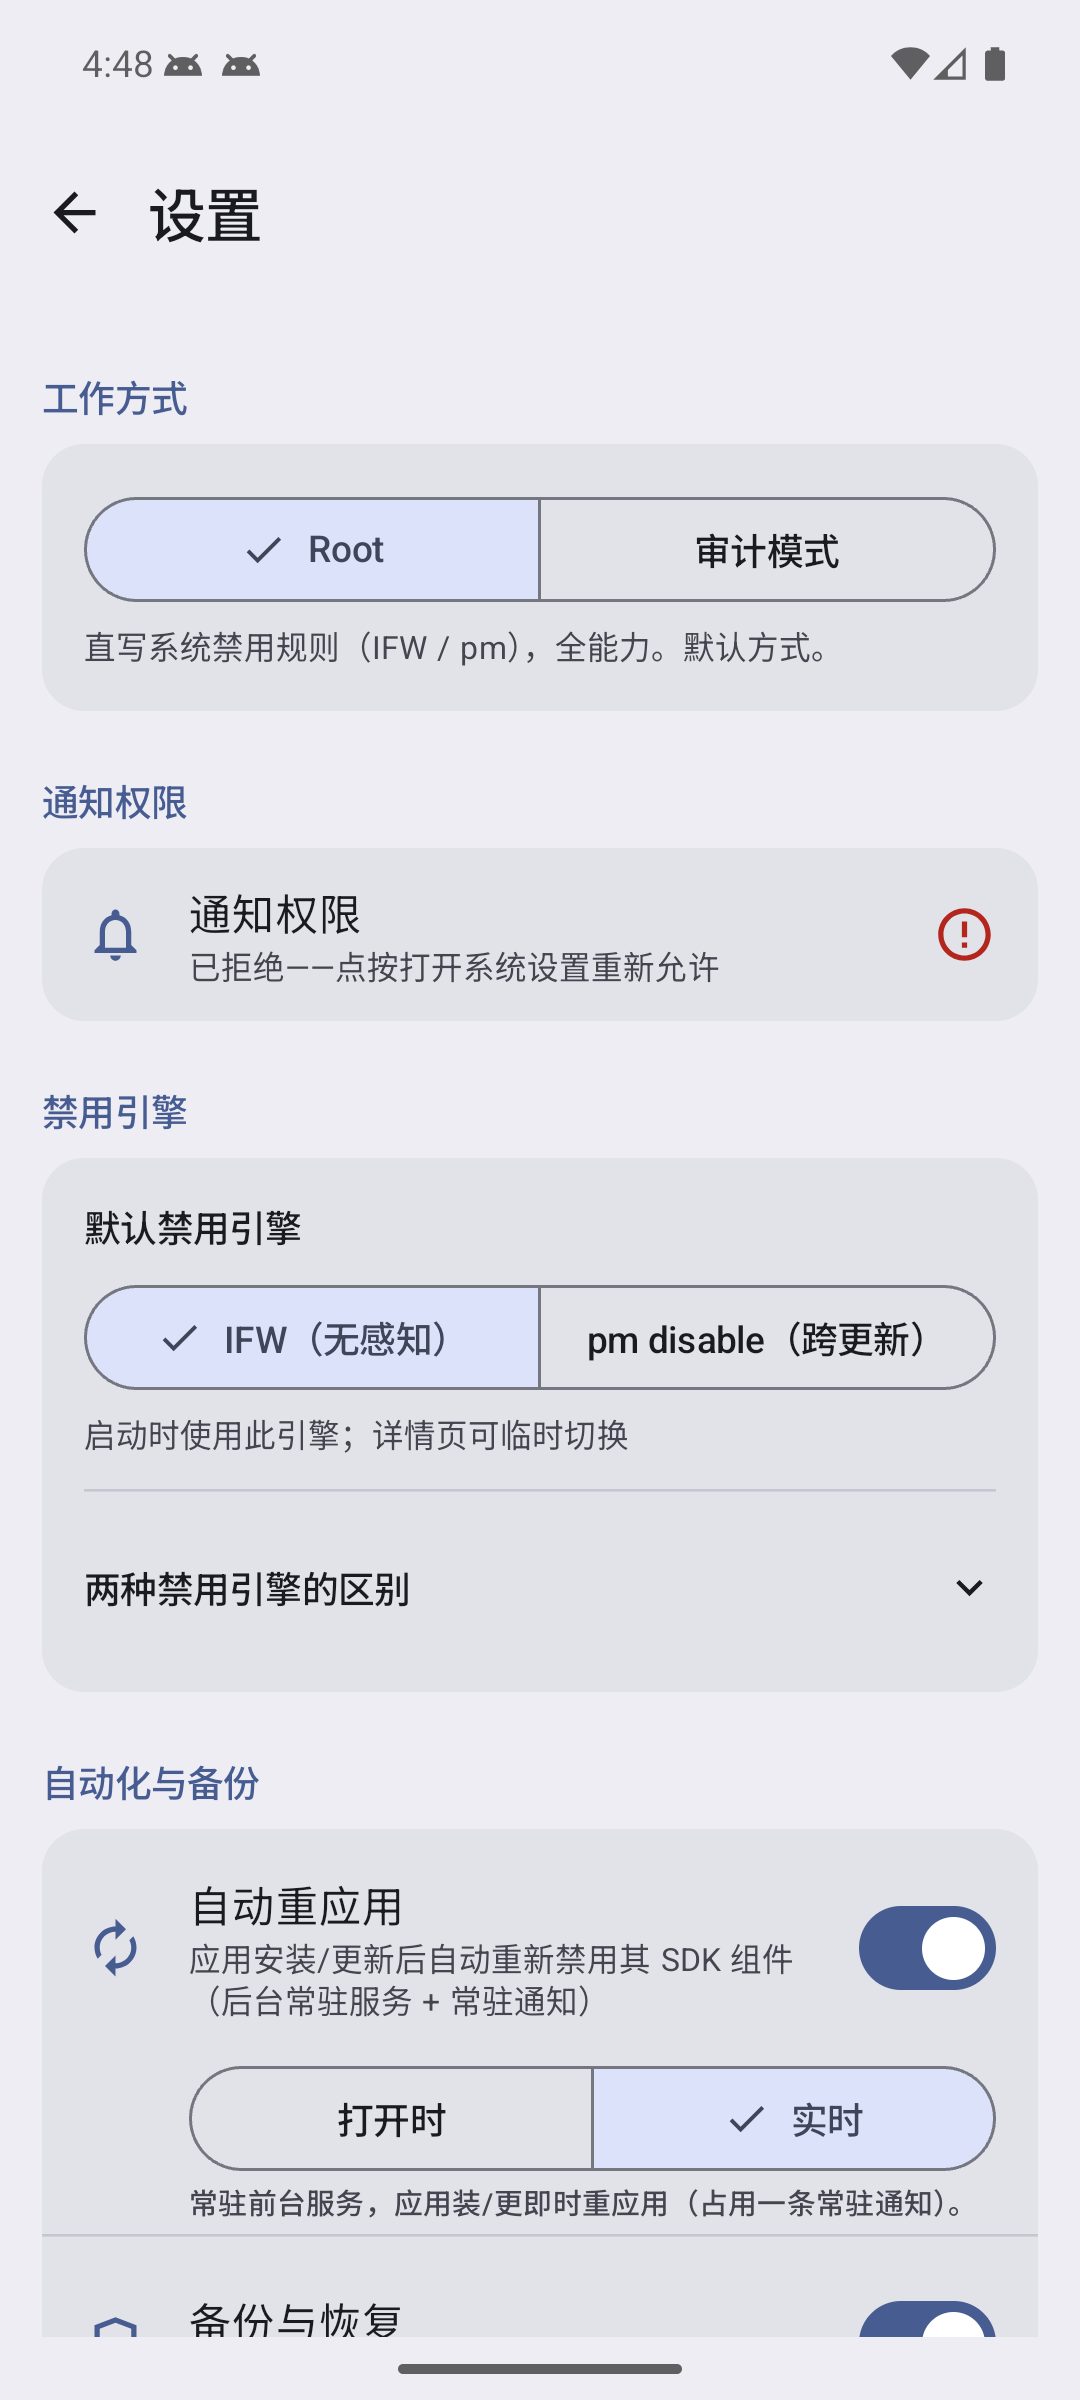
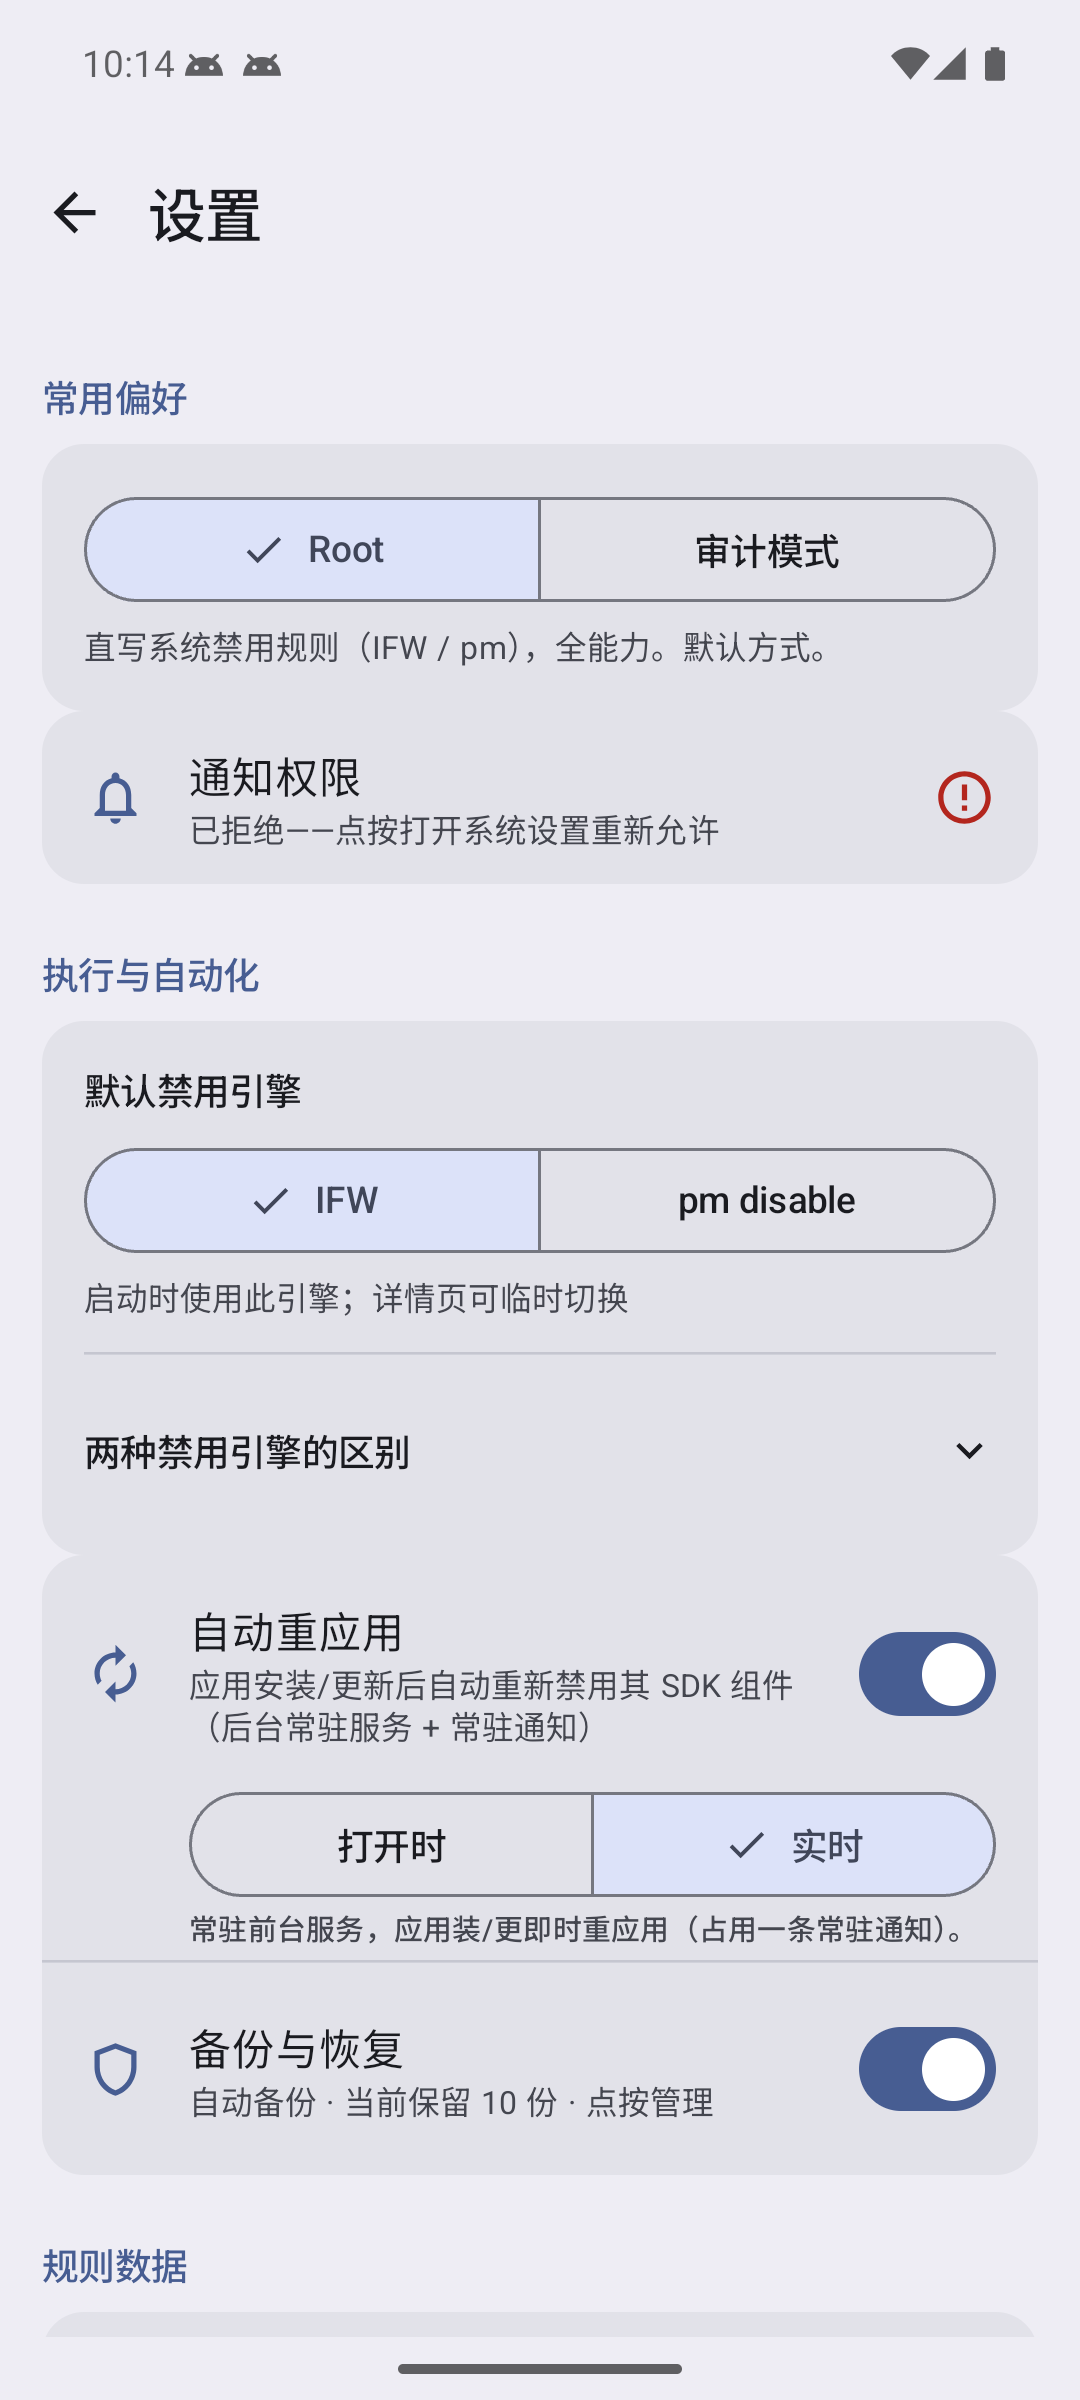
docs(N7/批N): README 六图重拍随 0.26.0——中文/亮色/411dp；settings.png 展示 N5 五任务组新排版（旧帧系拆卡首版破碎态已替换）；archive_sheet 换 KOOK 中文详情（N1 工具条收合+零预选全文+已应用状态行）；同时清偿 0.25.0 minor 未拍欠账（CHANGELOG 已在 0.25.0 时记档不追溯）

diff --git a/app/src/main/kotlin/io/github/deserthouse/prunoid/ui/SettingsSections.kt b/app/src/main/kotlin/io/github/deserthouse/prunoid/ui/SettingsSections.kt
@@ -174,7 +174,7 @@ internal fun SettingRow(
 }
 
 @Composable
-internal fun NotifPermCard() {
+internal fun NotifPermSection() {
     // F1：权限状态行。点击跳系统「应用通知」页——自动弹窗在用户点过 Don't allow 后
     // 永不再现（MainActivity 记忆），这里是唯一的反悔通道。
     val ctx = androidx.compose.ui.platform.LocalContext.current
@@ -199,6 +199,7 @@ internal fun NotifPermCard() {
         lifecycleOwner.lifecycle.addObserver(obs)
         onDispose { lifecycleOwner.lifecycle.removeObserver(obs) }
     }
+    SettingsSection(stringResource(R.string.notif_perm_title)) {
         SettingsCard {
             SettingRow(
                 icon = Icons.Outlined.Notifications,
@@ -222,6 +223,7 @@ internal fun NotifPermCard() {
                 )
             }
         }
+    }
 }
 
 @Composable
@@ -255,8 +257,9 @@ internal fun LanguageSection() {
 
 }
 @Composable
-internal fun WorkModeCard(st: AppUiState, vm: AppViewModel) {
+internal fun WorkModeSection(st: AppUiState, vm: AppViewModel) {
     // ── 工作方式（批N 一级）──
+    SettingsSection(stringResource(R.string.sec_workmode)) {
         SettingsCard {
             Column(Modifier.padding(16.dp)) {
                 SingleChoiceSegmentedButtonRow(Modifier.fillMaxWidth()) {
@@ -267,7 +270,8 @@ internal fun WorkModeCard(st: AppUiState, vm: AppViewModel) {
                             shape = SegmentedButtonDefaults.itemShape(index = i, count = 2)
                         ) { Text(label) }
                     }
-                            Spacer(Modifier.height(4.dp))
+                }
+                Spacer(Modifier.height(4.dp))
                 // 批R1（审计 B-6）：段选说明如实反映当前能力——配置选了 Root 但未授权时不再虚报 Full capability
                 val rootSelected = st.workMode.id.name == "ROOT"
                 val rootMissing = rootSelected && !st.rootGranted
@@ -287,8 +291,9 @@ internal fun WorkModeCard(st: AppUiState, vm: AppViewModel) {
 
 }
 @Composable
-internal fun DeclarativeCard(st: AppUiState, vm: AppViewModel, onMsg: (String) -> Unit) {
+internal fun DeclarativeSection(st: AppUiState, vm: AppViewModel, onMsg: (String) -> Unit) {
     // ── 声明式（批P：LSPosed 模式，默认关闭） ──
+    SettingsSection(stringResource(R.string.sec_declarative)) {
         SettingsCard {
             Column(Modifier.padding(vertical = 4.dp)) {
                 SettingRow(
@@ -311,7 +316,8 @@ internal fun DeclarativeCard(st: AppUiState, vm: AppViewModel, onMsg: (String) -
                         color = MaterialTheme.colorScheme.error,
                         modifier = Modifier.padding(horizontal = 16.dp, vertical = 4.dp)
                     )
-                            Text(
+                }
+                Text(
                     stringResource(R.string.decl_note),
                     style = MaterialTheme.typography.labelSmall,
                     color = MaterialTheme.colorScheme.onSurfaceVariant,
@@ -329,9 +335,10 @@ internal fun DeclarativeCard(st: AppUiState, vm: AppViewModel, onMsg: (String) -
 
 }
 @Composable
-internal fun EnginesCard(st: AppUiState, vm: AppViewModel) {
+internal fun EnginesSection(st: AppUiState, vm: AppViewModel) {
     // ── 禁用引擎（批N：仅 root 模式显示，二级级联） ──
     if (st.workMode.id.name == "ROOT") {
+    SettingsSection(stringResource(R.string.sec_engine)) {
     SettingsCard {
         Column(Modifier.padding(16.dp)) {
             Text(stringResource(R.string.engine_default_title), style = MaterialTheme.typography.titleSmall)
@@ -348,7 +355,8 @@ internal fun EnginesCard(st: AppUiState, vm: AppViewModel) {
                         // 各按钮独立测量无同高约束），单行后组内天然同高
                         Text(engineLabel(e), maxLines = 1, overflow = TextOverflow.Ellipsis)
                     }
-                        }
+                }
+            }
             Spacer(Modifier.height(4.dp))
             Text(
                 stringResource(R.string.engine_default_desc),
@@ -411,9 +419,10 @@ internal fun EnginesCard(st: AppUiState, vm: AppViewModel) {
 
 }
 @Composable
-internal fun AutomationBackupCard(st: AppUiState, vm: AppViewModel, onShowBackup: () -> Unit) {
+internal fun AutomationBackupSection(st: AppUiState, vm: AppViewModel, onShowBackup: () -> Unit) {
     // ── 自动化与备份（批N：仅 root 模式） ──
     if (st.workMode.id.name == "ROOT") {
+    SettingsSection(stringResource(R.string.sec_auto)) {
     SettingsCard {
         Column(Modifier.padding(vertical = 4.dp)) {
             SettingRow(
@@ -439,7 +448,8 @@ internal fun AutomationBackupCard(st: AppUiState, vm: AppViewModel, onShowBackup
                                 onClick = { vm.setReapplyMode(tag) },
                                 shape = SegmentedButtonDefaults.itemShape(index = i, count = 2)
                             ) { Text(label, maxLines = 1, overflow = TextOverflow.Ellipsis) }
-                                        }
+                        }
+                    }
                 }
                 Text(
                     if (st.reapplyMode == "realtime") stringResource(R.string.reapply_realtime_desc)
@@ -477,9 +487,10 @@ internal fun AutomationBackupCard(st: AppUiState, vm: AppViewModel, onShowBackup
 
 }
 @Composable
-internal fun SubscriptionsCard(st: AppUiState, vm: AppViewModel, onShowAddSource: () -> Unit, onMsg: (String) -> Unit) {
+internal fun SubscriptionsSection(st: AppUiState, vm: AppViewModel, onShowAddSource: () -> Unit, onMsg: (String) -> Unit) {
     // ── 规则订阅 ──
     var confirmRemoveSrc by remember { mutableStateOf<io.github.deserthouse.prunoid.core.rules.SettingsRepository.SubSource?>(null) }
+    SettingsSection(stringResource(R.string.sec_sub)) {
     SettingsCard {
         Column(Modifier.padding(16.dp)) {
             Text(
@@ -517,7 +528,8 @@ internal fun SubscriptionsCard(st: AppUiState, vm: AppViewModel, onShowAddSource
                                     style = MaterialTheme.typography.labelSmall,
                                     color = MaterialTheme.colorScheme.onSurfaceVariant
                                 )
-                                                }
+                            }
+                        }
                         // 批R2（审计 P-1）：clickable 接到可见 URL 行（CreditEntry 整行触达写法）；
                         // 旧实现热区挂在渲染单空格的 Text(" ") 上——可见链接反而点不动
                         Row(
@@ -608,10 +620,11 @@ internal fun SubscriptionsCard(st: AppUiState, vm: AppViewModel, onShowAddSource
 
 }
 @Composable
-internal fun RecoveryCards(st: AppUiState, vm: AppViewModel, onMsg: (String) -> Unit) {
+internal fun RecoverySection(st: AppUiState, vm: AppViewModel, onMsg: (String) -> Unit) {
     // ── 应急通道（F3：恢复点管理迁入 + 复制按钮 + 清除全部迁入） ──
     // 批R2（审计 P-2）：系统级毁灭操作补单次确认——批J2 拆倒计时时此键的确认被一并拆掉（git 考古 5120738）
     var confirmClearIfw by remember { mutableStateOf(false) }
+    SettingsSection(stringResource(R.string.sec_recovery)) {
     // 批BB RV-09：账本损坏提示 + 显式重置（证据文件保留；恢复依据由用户确认丢弃）
     if (st.ledgerCorrupted) {
         SettingsCard {
@@ -625,7 +638,8 @@ internal fun RecoveryCards(st: AppUiState, vm: AppViewModel, onMsg: (String) -> 
                 TextButton(onClick = { vm.resetLedger() }) {
                     Text(stringResource(R.string.ledger_reset), color = MaterialTheme.colorScheme.error)
                 }
-                }
+            }
+        }
     }
     SettingsCard {
         Column(Modifier.padding(vertical = 4.dp)) {
